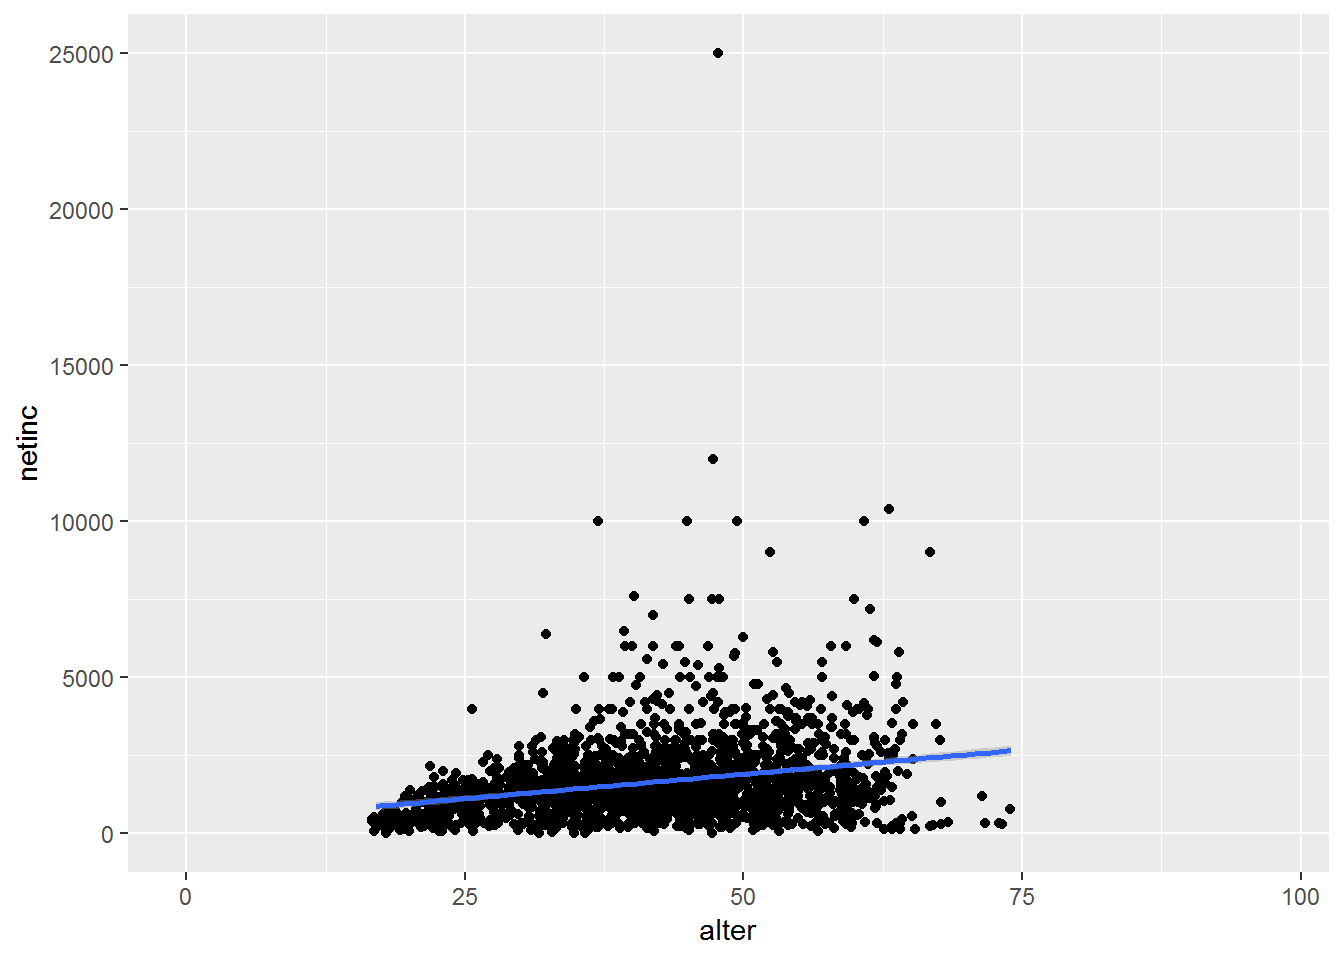
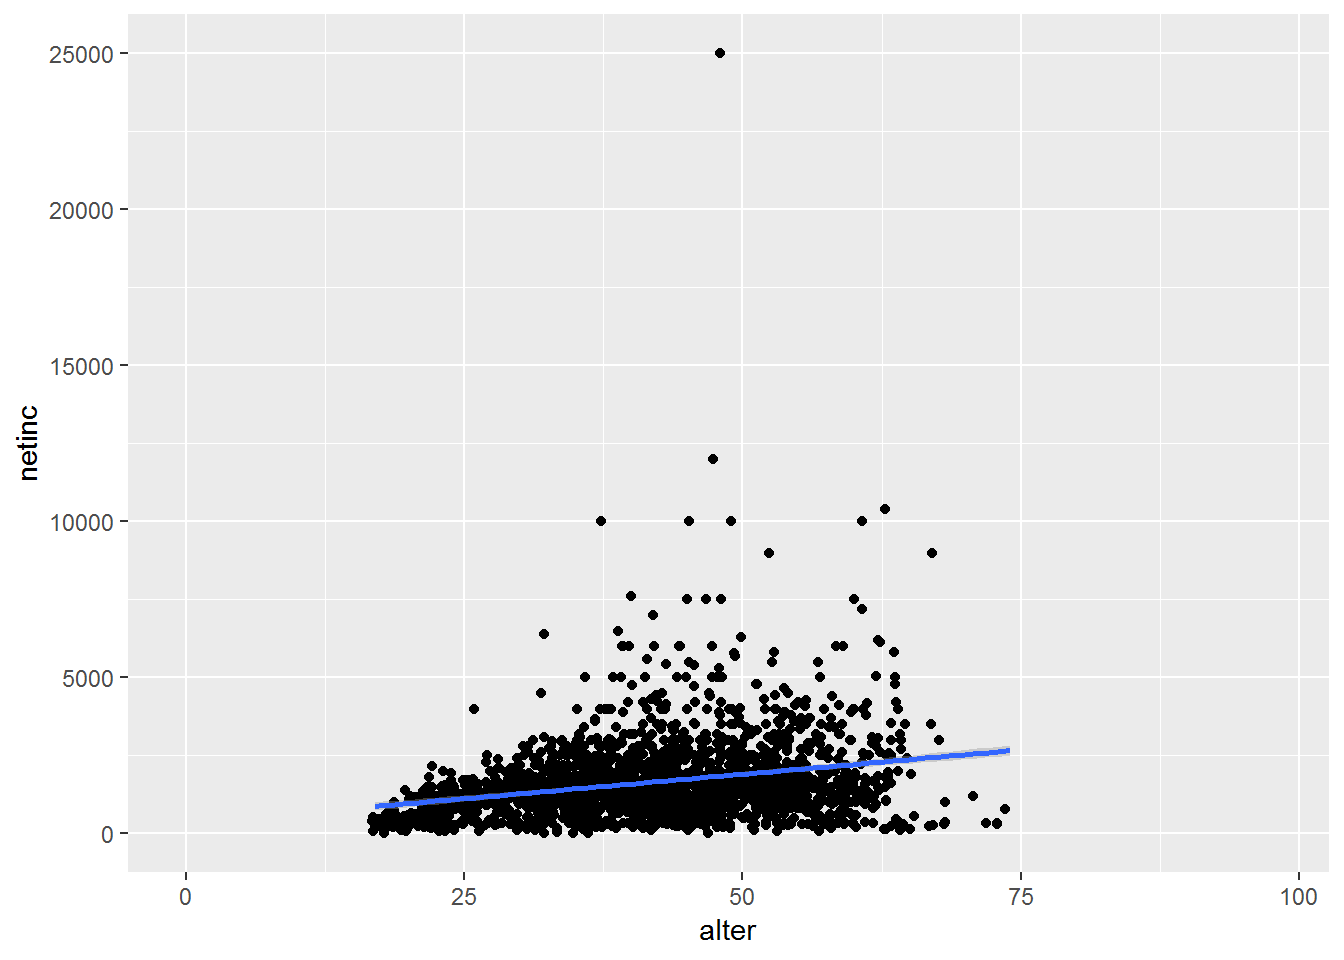
messing around with jekyll

diff --git a/docs/datamanagement.html b/docs/datamanagement.html
@@ -493,12 +493,12 @@ econ$netinc = recode(econ$tp7602,&quot;-3=NA;-2=NA;-1=NA&quot;)
 econ_data &lt;- econ[,c(&quot;netinc&quot;,&quot;alter&quot;,&quot;sex&quot;,&quot;contract&quot;,&quot;actual&quot;,&quot;trust&quot;,&quot;rely&quot;)]
 head(econ_data)</code></pre>
 <pre><code>##       netinc alter      sex contract actual trust rely
-## 7566    1600    59 männlich       40     40     3    1
-## 8043      NA     1 weiblich       NA     NA    NA   NA
-## 8331      NA    18 männlich       NA     NA     1    4
-## 10049     NA    46 männlich       NA     NA     3    2
-## 13543     NA    72 männlich       NA     NA     2    3
-## 6305      NA    68 männlich       NA     NA     2    3</code></pre>
+## 1117      NA    54 männlich       NA     NA     2    3
+## 4461      NA    33 männlich       NA     NA     2    3
+## 13504   1800    52 weiblich       NA   20.0     2    3
+## 7903      NA    28 männlich       NA     NA    NA   NA
+## 966     1100    42 weiblich     19.5   19.5     2    3
+## 650     1500    48 männlich       NA   80.0     1    4</code></pre>
 <pre class="r"><code># Delete NAs
 econ_data &lt;- na.omit(econ_data)
 
@@ -507,8 +507,8 @@ econ_data &lt;- na.omit(econ_data)
 hist(econ$netinc)</code></pre>
 <p><img src="datamanagement_files/figure-html/unnamed-chunk-2-1.png" width="672" /></p>
 <pre class="r"><code>quantile(econ_data$netinc)</code></pre>
-<pre><code>##    0%   25%   50%   75%  100% 
-##     0   870  1350  1900 10388</code></pre>
+<pre><code>##     0%    25%    50%    75%   100% 
+##    0.0  866.0 1354.5 1900.0 8000.0</code></pre>
 <pre class="r"><code>econ_data$inc_kat &lt;- NA
 econ_data$inc_kat [econ_data$netinc &lt; quantile(econ_data$netinc)[2]] &lt;- &quot;Q1&quot;
 econ_data$inc_kat [econ_data$netinc &gt;= quantile(econ_data$netinc)[2] &amp; econ_data$netinc &lt; quantile(econ_data$netinc)[3]] &lt;- &quot;Q2&quot;
@@ -518,7 +518,7 @@ econ_data$inc_kat [econ_data$netinc &gt;= quantile(econ_data$netinc)[4] ] &lt;- 
 table(econ_data$inc_kat)</code></pre>
 <pre><code>## 
 ##  Q1  Q2  Q3  Q4 
-## 432 432 422 444</code></pre>
+## 427 427 404 450</code></pre>
 </div>
 <div id="advanced-dm-the-tidyverse" class="section level1">
 <h1><span class="header-section-number">3</span> Advanced DM: The tidyverse</h1>
@@ -532,12 +532,12 @@ table(econ_data$inc_kat)</code></pre>
 
 head(econ_data)</code></pre>
 <pre><code>##   netinc alter      sex contract actual trust rely inc_kat alter_squared
-## 1   1600    59 männlich     40.0   40.0     3    1      Q3          3481
-## 2    518    43 weiblich     20.0   25.0     2    3      Q1          1849
-## 3   1300    42 weiblich     33.0   33.0     3    4      Q2          1764
-## 4   8000    45 männlich     20.0   40.0     2    3      Q4          2025
-## 5   1100    24 männlich     35.0   35.0     4    1      Q2           576
-## 6   1500    33 weiblich     38.5   38.5     2    2      Q3          1089</code></pre>
+## 1   1100    42 weiblich     19.5   19.5     2    3      Q2          1764
+## 2   2000    42 männlich     38.5   42.0     2    3      Q4          1764
+## 3   2846    50 männlich     36.0   38.0     3    2      Q4          2500
+## 4   1318    47 weiblich     40.0   43.0     3    3      Q2          2209
+## 5    650    28 weiblich     37.5   37.5     3    2      Q1           784
+## 6   2137    36 männlich     38.5   44.0     3    2      Q4          1296</code></pre>
 </div>
 <div id="summarise" class="section level2">
 <h2><span class="header-section-number">3.2</span> Summarise</h2>
@@ -545,8 +545,8 @@ head(econ_data)</code></pre>
 <pre class="r"><code>econ_data %&gt;% 
   summarise(mean = mean(alter,na.rm = T),
             sd = sd(alter,na.rm = T))</code></pre>
-<pre><code>##       mean       sd
-## 1 41.04855 11.74089</code></pre>
+<pre><code>##       mean     sd
+## 1 40.90105 11.651</code></pre>
 </div>
 <div id="group_by" class="section level2">
 <h2><span class="header-section-number">3.3</span> group_by</h2>
@@ -558,7 +558,7 @@ head(econ_data)</code></pre>
 <pre><code>## # A tibble: 1 x 2
 ##    mean    sd
 ##   &lt;dbl&gt; &lt;dbl&gt;
-## 1  41.0  11.7</code></pre>
+## 1  40.9  11.7</code></pre>
 </div>
 </div>
 
